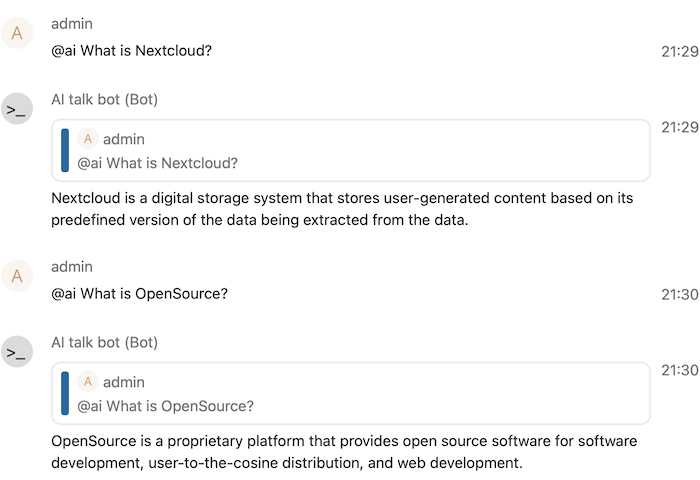
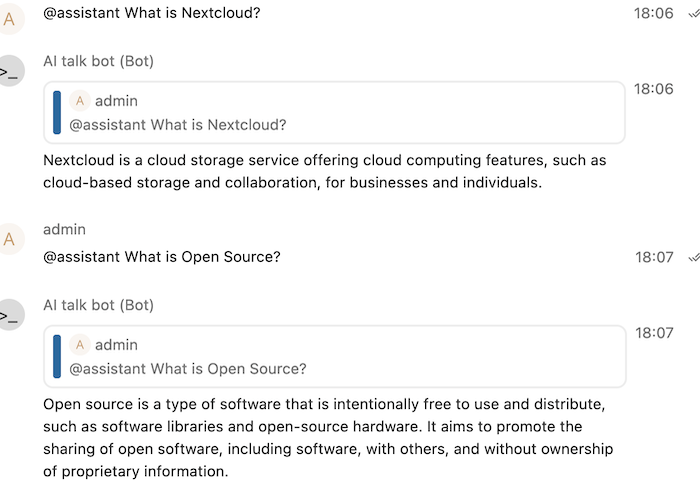
small docs adjustment (#141)

diff --git a/examples/as_app/talk_bot_ai/src/main.py b/examples/as_app/talk_bot_ai/src/main.py
@@ -14,13 +14,13 @@ from nc_py_api import NextcloudApp, talk_bot
 from nc_py_api.ex_app import run_app, set_handlers, talk_bot_app
 
 APP = FastAPI()
-AI_BOT = talk_bot.TalkBot("/ai_talk_bot", "AI talk bot", "Usage: `@ai What sounds do cats make?`")
+AI_BOT = talk_bot.TalkBot("/ai_talk_bot", "AI talk bot", "Usage: `@assistant What sounds do cats make?`")
 MODEL_NAME = "MBZUAI/LaMini-Flan-T5-77M"
 MODEL_INIT_THREAD = None
 
 
 def ai_talk_bot_process_request(message: talk_bot.TalkBotMessage):
-    r = re.search(r"@ai\s(.*)", message.object_content["message"], re.IGNORECASE)
+    r = re.search(r"@assistant\s(.*)", message.object_content["message"], re.IGNORECASE)
     if r is None:
         return
     model = pipeline("text2text-generation", model=MODEL_NAME)

diff --git a/examples/as_app/talk_bot_multi/HOW_TO_INSTALL.md b/examples/as_app/talk_bot_multi/HOW_TO_INSTALL.md
@@ -1,12 +1,7 @@
 How To Install
 ==============
 
-Currently, while AppAPI hasn't been published on the App Store, and App Store support hasn't been added yet,
-installation is a little bit tricky.
-
-Steps to Install:
-
-1. [Install AppAPI](https://cloud-py-api.github.io/app_api/Installation.html)
+1. [Install AppAPI](https://apps.nextcloud.com/apps/app_api)
 2. Create a deployment daemon according to the [instructions](https://cloud-py-api.github.io/app_api/CreationOfDeployDaemon.html#create-deploy-daemon) of the AppPI
 3. php occ app_api:app:deploy talk_bot_multi "daemon_deploy_name" \
 --info-xml https://raw.githubusercontent.com/cloud-py-api/nc_py_api/main/examples/as_app/talk_bot_multi/appinfo/info.xml
@@ -17,12 +12,3 @@ Steps to Install:
 --info-xml https://raw.githubusercontent.com/cloud-py-api/nc_py_api/main/examples/as_app/talk_bot_multi/appinfo/info.xml
 
     to call its **enable** handler and accept all required API scopes by default.
-
-
-In a few months
-===============
-
-1. Install AppAPI from App Store
-2. Configure Deploy Daemon with GUI provided by AppAPI
-3. Go to External Applications page in Nextcloud UI
-4. Find this bot in a list and press "Install" and "Enable" buttons, like with usual Applications.

diff --git a/examples/as_app/talk_bot_ai/HOW_TO_INSTALL.md b/examples/as_app/talk_bot_ai/HOW_TO_INSTALL.md
@@ -1,12 +1,7 @@
 How To Install
 ==============
 
-Currently, while AppAPI hasn't been published on the App Store, and App Store support hasn't been added yet,
-installation is a little bit tricky.
-
-Steps to Install:
-
-1. [Install AppAPI](https://cloud-py-api.github.io/app_api/Installation.html)
+1. [Install AppAPI](https://apps.nextcloud.com/apps/app_api)
 2. Create a deployment daemon according to the [instructions](https://cloud-py-api.github.io/app_api/CreationOfDeployDaemon.html#create-deploy-daemon) of the AppPI
 3. php occ app_api:app:deploy talk_bot_ai "daemon_deploy_name" \
 --info-xml https://raw.githubusercontent.com/cloud-py-api/nc_py_api/main/examples/as_app/talk_bot_ai/appinfo/info.xml
@@ -17,12 +12,3 @@ Steps to Install:
 --info-xml https://raw.githubusercontent.com/cloud-py-api/nc_py_api/main/examples/as_app/talk_bot_ai/appinfo/info.xml
 
     to call its **enable** handler and accept all required API scopes by default.
-
-
-In a few months
-===============
-
-1. Install AppAPI from App Store
-2. Configure Deploy Daemon with GUI provided by AppAPI
-3. Go to External Applications page in Nextcloud UI
-4. Find this bot in a list and press "Install" and "Enable" buttons, like with usual Applications.

diff --git a/examples/as_app/talk_bot/HOW_TO_INSTALL.md b/examples/as_app/talk_bot/HOW_TO_INSTALL.md
@@ -1,12 +1,7 @@
 How To Install
 ==============
 
-Currently, while AppAPI hasn't been published on the App Store, and App Store support hasn't been added yet,
-installation is a little bit tricky.
-
-Steps to Install:
-
-1. [Install AppAPI](https://cloud-py-api.github.io/app_api/Installation.html)
+1. [Install AppAPI](https://apps.nextcloud.com/apps/app_api)
 2. Create a deployment daemon according to the [instructions](https://cloud-py-api.github.io/app_api/CreationOfDeployDaemon.html#create-deploy-daemon) of the AppPI
 3. php occ app_api:app:deploy talk_bot "daemon_deploy_name" \
 --info-xml https://raw.githubusercontent.com/cloud-py-api/nc_py_api/main/examples/as_app/talk_bot/appinfo/info.xml
@@ -17,12 +12,3 @@ Steps to Install:
 --info-xml https://raw.githubusercontent.com/cloud-py-api/nc_py_api/main/examples/as_app/talk_bot/appinfo/info.xml
 
     to call its **enable** handler and accept all required API scopes by default.
-
-
-In a few months
-===============
-
-1. Install AppAPI from App Store
-2. Configure Deploy Daemon with GUI provided by AppAPI
-3. Go to External Applications page in Nextcloud UI
-4. Find this bot in a list and press "Install" and "Enable" buttons, like with usual Applications.

diff --git a/docs/MoreAPIs.rst b/docs/MoreAPIs.rst
@@ -2,3 +2,32 @@
 
 More APIs
 =========
+
+All provided APIs can be accessed using instance of `Nextcloud` or `NextcloudApp` class.
+
+For example, let's print all Talk conversations for the current user:
+
+.. code-block:: python
+
+    from nc_py_api import Nextcloud
+
+
+    nc = Nextcloud(nextcloud_url="http://nextcloud.local", nc_auth_user="admin", nc_auth_pass="admin")
+    all_conversations = nc.talk.get_user_conversations()
+    for conversation in all_conversations:
+        print(conversation.conversation_type.name + ": " + conversation.display_name)
+
+Or let's find only your favorite conversations and send them a sweet message containing only heart emoticons: "❤❤❤"
+
+
+.. code-block:: python
+
+    from nc_py_api import Nextcloud
+
+
+    nc = Nextcloud(nextcloud_url="http://nextcloud.local", nc_auth_user="admin", nc_auth_pass="admin")
+    all_conversations = nc.talk.get_user_conversations()
+    for conversation in all_conversations:
+        if conversation.is_favorite:
+            print(conversation.conversation_type.name + ": " + conversation.display_name)
+            nc.talk.send_message("❤❤❤", conversation)
